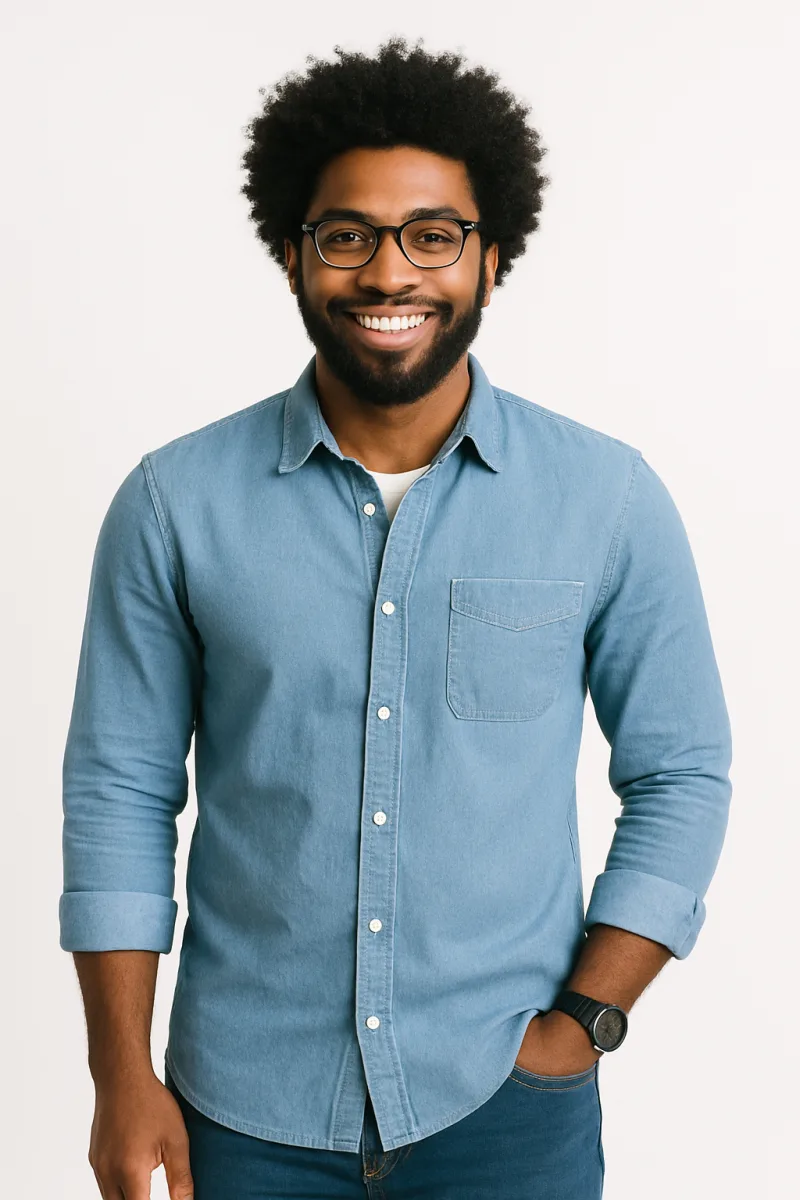
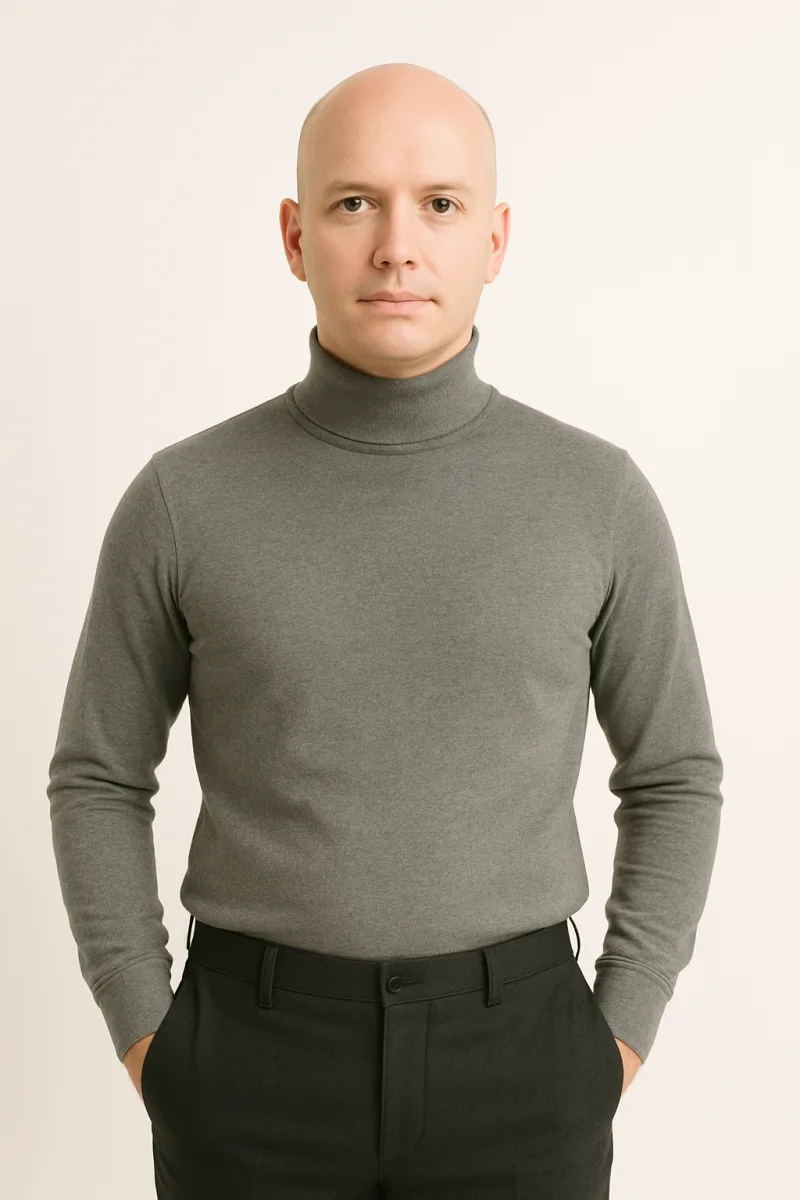
남은 화자 사진까지 맞춘다 — M2 강의 둘과 스피킹 면접관
앞 커밋은 짧은 응답 15문항만 봤다. 나머지 자리를 오디오로 재어 보니 두 군데가 더
어긋나 있었다.

  M2 8-11 강의  GB-Oliver(남) 인데 여성 사진
  스피킹 Task 2 GB-Oliver(남) 인데 여성 면접관이 찍힌 문항지 캡처
                (4분할 · 응답시간 UI 가 그대로 박힌 이미지가 인물 사진 자리에 있었다)

둘 다 지금 있는 사진으로 바꿨다. 오디오는 건드리지 않았다.

겸사겸사 Oliver 와 Henry 를 다른 얼굴로 갈랐다. 둘은 연속된 두 강의를 맡는 사람들이라
(M1 25-28/29-32 · M2 8-11/12-15) 배역표가 음색을 일부러 대비시켜 둔 짝인데, 얼굴이
같으면 그 구분이 화면에서 도로 무너진다. 남성 얼굴 3장으로 6명을 감당하는 배치라
짝을 다시 묶어 이웃한 자리에 같은 얼굴이 오지 않게 했다.

검사는 스피킹 섹션까지 넓혔다. SET 1 도 같은 자리(면접관 image8)를 이제 함께 재는데,
그쪽은 오디오가 여성이라 원래 맞았다 — SET 9 만 그 여성 캡처를 남성 화자에 붙여 썼다.
SET 1 · SET 9 합쳐 45 통과 · 0 실패.

diff --git a/studyground/sg2/assets/set9.js b/studyground/sg2/assets/set9.js
@@ -760,7 +760,7 @@
               "answer": 0,
               "layout": "short-response",
               "audio": "media/audio/set9/l1-q06.mp3",
-              "image": "media/pictures/set9/l1-q1-12-speaker-e.webp"
+              "image": "media/pictures/set9/l1-q1-12-speaker-c.webp"
             },
             {
               "id": "L1-7",
@@ -824,7 +824,7 @@
               "answer": 0,
               "layout": "short-response",
               "audio": "media/audio/set9/l1-q10.mp3",
-              "image": "media/pictures/set9/l1-q1-12-speaker-c.webp"
+              "image": "media/pictures/set9/l1-q1-12-speaker-e.webp"
             },
             {
               "id": "L1-11",
@@ -893,7 +893,8 @@
               "answer": 3
             }
           ],
-          "audio": "media/audio/set9/l1-q13-14.mp3"
+          "audio": "media/audio/set9/l1-q13-14.mp3",
+          "image": "media/pictures/set9/l2-q4-5-conversation.webp"
         },
         {
           "kind": "audio-set",
@@ -927,7 +928,8 @@
               "answer": 3
             }
           ],
-          "audio": "media/audio/set9/l1-q15-16.mp3"
+          "audio": "media/audio/set9/l1-q15-16.mp3",
+          "image": "media/pictures/set9/l2-q6-7-conversation.webp"
         },
         {
           "kind": "audio-set",
@@ -961,7 +963,8 @@
               "answer": 1
             }
           ],
-          "audio": "media/audio/set9/l1-q17-18.mp3"
+          "audio": "media/audio/set9/l1-q17-18.mp3",
+          "image": "media/pictures/set9/l2-q4-5-conversation.webp"
         },
         {
           "kind": "audio-set",
@@ -995,7 +998,8 @@
               "answer": 1
             }
           ],
-          "audio": "media/audio/set9/l1-q19-20.mp3"
+          "audio": "media/audio/set9/l1-q19-20.mp3",
+          "image": "media/pictures/set9/l1-q1-12-speaker-a.webp"
         },
         {
           "kind": "audio-set",
@@ -1029,7 +1033,8 @@
               "answer": 0
             }
           ],
-          "audio": "media/audio/set9/l1-q21-22.mp3"
+          "audio": "media/audio/set9/l1-q21-22.mp3",
+          "image": "media/pictures/set9/l1-q1-12-speaker-e.webp"
         },
         {
           "kind": "audio-set",
@@ -1063,7 +1068,8 @@
               "answer": 3
             }
           ],
-          "audio": "media/audio/set9/l1-q23-24.mp3"
+          "audio": "media/audio/set9/l1-q23-24.mp3",
+          "image": "media/pictures/set9/l1-q1-12-speaker-c.webp"
         },
         {
           "kind": "audio-set",
@@ -1123,7 +1129,8 @@
               "answer": 1
             }
           ],
-          "audio": "media/audio/set9/l1-q25-28.mp3"
+          "audio": "media/audio/set9/l1-q25-28.mp3",
+          "image": "media/pictures/set9/l1-q1-12-speaker-e.webp"
         },
         {
           "kind": "audio-set",
@@ -1183,7 +1190,8 @@
               "answer": 3
             }
           ],
-          "audio": "media/audio/set9/l1-q29-32.mp3"
+          "audio": "media/audio/set9/l1-q29-32.mp3",
+          "image": "media/pictures/set9/l1-q1-12-speaker-c.webp"
         }
       ]
     },
@@ -2321,7 +2329,7 @@
               "audio": "media/audio/set9/s2-q1.mp3",
               "prepSec": 3,
               "respondSec": 45,
-              "image": "media/pictures/set9/s-task2-interview.png"
+              "image": "media/pictures/set9/s-task2-interviewer.webp"
             },
             {
               "id": "set9-S2-q02",
@@ -2330,7 +2338,7 @@
               "audio": "media/audio/set9/s2-q2.mp3",
               "prepSec": 3,
               "respondSec": 45,
-              "image": "media/pictures/set9/s-task2-interview.png"
+              "image": "media/pictures/set9/s-task2-interviewer.webp"
             },
             {
               "id": "set9-S2-q03",
@@ -2339,7 +2347,7 @@
               "audio": "media/audio/set9/s2-q3.mp3",
               "prepSec": 3,
               "respondSec": 45,
-              "image": "media/pictures/set9/s-task2-interview.png"
+              "image": "media/pictures/set9/s-task2-interviewer.webp"
             },
             {
               "id": "set9-S2-q04",
@@ -2348,7 +2356,7 @@
               "audio": "media/audio/set9/s2-q4.mp3",
               "prepSec": 3,
               "respondSec": 45,
-              "image": "media/pictures/set9/s-task2-interview.png"
+              "image": "media/pictures/set9/s-task2-interviewer.webp"
             }
           ]
         }

diff --git a/studyground/sg2/sw.js b/studyground/sg2/sw.js
@@ -84,7 +84,10 @@
 //      셸에 든 set9.js 가 바뀌었으므로 VERSION 을 올려야 재방문 기기가 남녀가
 //      뒤바뀐 옛 배정을 계속 보지 않는다. 여성 얼굴 한 장(speaker-f)이 늘어
 //      config/offline.set9.json 도 92개로 갱신되었다.
-const VERSION = 'sg-v31';
+// v32: 화자 사진 맞추기 2차 — M2 강의 두 개(8-11 Oliver · 12-15 Henry)와 스피킹 Task 2
+//      면접관까지 배역대로 바꿨다. 8-11 자리에는 남성 오디오에 여성 사진이, Task 2 에는
+//      남성 오디오에 여성 면접관 캡처가 들어가 있었다. set9.js 가 또 바뀌어 판올림한다.
+const VERSION = 'sg-v32';
 const SHELL = 'sg-shell-' + VERSION;
 const MEDIA = 'sg-media-' + VERSION;
 

diff --git a/studyground/tools/build_set9.py b/studyground/tools/build_set9.py
@@ -120,13 +120,45 @@ def resolve_audio(ref, where):
 #
 # 화자 캐릭터 → 얼굴 (한 캐릭터는 세트 내내 같은 얼굴. 이웃한 두 문항은 다른 얼굴)
 #   Ava·Zoe·Lily → b   Mia·Alice·Ivy → d   Emma → f
-#   Liam·Noah → a      Mason·Ethan → c     Henry·Oliver → e
+#   Liam·Noah → a      Mason·Henry → c      Ethan·Oliver → e
+# 남성 얼굴 3장으로 남성 화자 6명을 감당해야 하므로 둘씩 짝지을 수밖에 없다. 짝을 이렇게
+# 묶은 이유는 배역표 designNotes ① 때문이다 — Oliver 와 Henry 는 연속된 두 강의를 맡는다
+# (M1 25-28 / 29-32, M2 8-11 / 12-15). 음색을 일부러 갈라 놓은 두 사람이므로 얼굴까지
+# 같으면 화면이 도로 헷갈리게 만든다. 그래서 둘을 서로 다른 짝에 넣었다.
 #
 # M1 Q1-12 화자: Ava Liam Mia Mason Alice Henry Lily Noah Emma Ethan Zoe Oliver
 # M2 Q1-3  화자: Ava Emma Ivy
-L1_Q1_12_IMAGES = ['b', 'a', 'd', 'c', 'd', 'e', 'b', 'a', 'f', 'c', 'b', 'e']
+L1_Q1_12_IMAGES = ['b', 'a', 'd', 'c', 'd', 'c', 'b', 'a', 'f', 'e', 'b', 'e']
 L2_Q1_3_IMAGES = ['b', 'f', 'd']
 PIC_EXT = '.webp'
+#
+# ── L1 블록(대화·공지·강의) 삽화 (2026-08-11) ──────────────────────────────
+# docx 는 M1 Q13-32 자리에 삽화를 하나도 붙여 두지 않았다. 그래서 답변 화면 왼쪽 칸이
+# 통째로 비어 선택지만 오른쪽에 떠 있었다 — 발주 요구는 "대화형은 왼쪽 사진 · 오른쪽 4지".
+# 아래 표로 블록마다 사진을 고정한다. 기준은 M2 블록과 같다:
+#   2인 대화  → 장면 삽화(l2-*-conversation)
+#   1인 공지  → 그 화자의 얼굴(위 캐릭터→얼굴 표)
+#   1인 강의  → 강의 장면 또는 그 화자의 얼굴
+# 배역(config/set9-voice-casting.json):
+#   13-14 Emma+Liam · 15-16 Mia+Ethan · 17-18 Zoe+Mason (전부 남녀 2인)
+#   19-20 Liam(a) · 21-22 Ethan(e) · 23-24 Mason(c) · 25-28 Oliver(e) · 29-32 Henry(c)
+# 고해상 남성 얼굴이 a·c·e 셋뿐이라 완전 배타 배정은 불가능하다. "한 캐릭터=한 얼굴"을
+# 먼저 지키되, 이웃한 두 블록에 같은 얼굴이 오지 않도록 짝을 골랐다.
+# 남성 얼굴이 더 들어오면 이 표만 고치면 된다.
+L1_BLOCK_IMAGES = {
+    'Questions 13-14': 'l2-q4-5-conversation' + PIC_EXT,
+    'Questions 15-16': 'l2-q6-7-conversation' + PIC_EXT,
+    'Questions 17-18': 'l2-q4-5-conversation' + PIC_EXT,
+    'Questions 19-20': 'l1-q1-12-speaker-a' + PIC_EXT,
+    'Questions 21-22': 'l1-q1-12-speaker-e' + PIC_EXT,
+    'Questions 23-24': 'l1-q1-12-speaker-c' + PIC_EXT,
+    'Questions 25-28': 'l1-q1-12-speaker-e' + PIC_EXT,
+    'Questions 29-32': 'l1-q1-12-speaker-c' + PIC_EXT,
+}
+# M2 블록. 대화 둘은 남녀 2인 장면(배역도 남녀 한 쌍이라 그대로 맞는다)이고,
+# 강의 둘은 화자 한 명이 나오는 인물 사진이라 배역을 따른다 —
+#   8-11 = GB-Oliver → 얼굴 e · 12-15 = GB-Henry → 얼굴 c.
+# 2026-08-11 이전에는 8-11 자리에 여성 사진이 들어가 있었다(오디오는 남성 Oliver).
 L2_BLOCK_IMAGES = {
     'Questions 4-5': 'l2-q4-5-conversation' + PIC_EXT,
     'Questions 6-7': 'l2-q6-7-conversation' + PIC_EXT,
@@ -511,8 +543,9 @@ def wire_listening(sec):
                         p = pic('l1-q1-12-speaker-' + L2_Q1_3_IMAGES[i] + PIC_EXT, where0 + '/' + q['id'])
                         if p:
                             q['image'] = p
-            elif mod['id'] == 'L2':
-                name = L2_BLOCK_IMAGES.get(blk.get('heading'))
+            else:
+                table = L1_BLOCK_IMAGES if mod['id'] == 'L1' else L2_BLOCK_IMAGES
+                name = table.get(blk.get('heading'))
                 if name:
                     p = pic(name, where0)
                     if p:
@@ -538,7 +571,12 @@ def wire_speaking(sec):
                     else:
                         del q['audio']
                         q['audioMissing'] = True
-                name = ('s-task1-repeat-' + str(i + 1) + '.png') if mod['id'] == 'S1' else 's-task2-interview.png'
+                # Task 1 은 카페테리아 장면 그림(따라 말할 부분이 초록 테두리로 표시된다) —
+                # 화자 사진이 아니므로 docx 원본을 그대로 쓴다.
+                # Task 2 는 화면의 인물 사진 자리다. docx 가 넣어 둔 것은 여성 면접관이 찍힌
+                # 문항지 캡처(4분할·응답시간 UI 포함)였는데 오디오는 GB-Oliver(남)다.
+                # 얼굴 c(= M2 8-11 강의와 같은 Oliver)로 바꾼다.
+                name = ('s-task1-repeat-' + str(i + 1) + '.png') if mod['id'] == 'S1' else 's-task2-interviewer.webp'
                 p = pic(name, where0 + '/' + q['id'])
                 if p:
                     q['image'] = p

diff --git a/studyground/tests/test_speaker_images.py b/studyground/tests/test_speaker_images.py
@@ -49,8 +49,10 @@ DUMP_JS = r"""
 global.window = global;
 require(process.argv[1]);
 var out = [];
-window[process.argv[2]].sections.find(function (s) { return s.id === 'listening'; })
-  .modules.forEach(function (m) {
+window[process.argv[2]].sections.filter(function (s) {
+  return s.id === 'listening' || s.id === 'speaking';
+}).forEach(function (s) {
+  s.modules.forEach(function (m) {
     m.blocks.forEach(function (b) {
       if (b.audio) out.push({ id: b.heading || m.id, audio: b.audio, image: b.image || '', level: 'block' });
       (b.questions || []).forEach(function (q) {
@@ -58,6 +60,7 @@ window[process.argv[2]].sections.find(function (s) { return s.id === 'listening'
       });
     });
   });
+});
 process.stdout.write(JSON.stringify(out));
 """
 
@@ -70,15 +73,33 @@ def listening_pairs(asset: str, global_name: str):
     return json.loads(proc.stdout)
 
 
-# SET 9 는 삽화 파일명(speaker-a..f)이 성별을 말해 주지 않는다. 사진 실물을 보고 적은 표이며,
-# tools/build_set9.py 의 배정 주석과 짝을 이룬다. 사진을 갈아 끼우면 여기도 고칠 것.
+# 파일명이 성별을 말해 주지 않는 삽화들. 사진 실물을 보고 적은 표이며,
+# SET 9 쪽은 tools/build_set9.py 의 배정 주석과 짝을 이룬다. 사진을 갈아 끼우면 여기도 고칠 것.
+# 'duo' 는 인물이 여럿이거나 장면 그림이라 화자 성별을 물을 수 없는 삽화다.
 SET9_FACE_GENDER = {
+    # SET 1 스피킹 — image1~7 은 상황 그림, image8 은 면접관 사진
+    "image1.png": "duo", "image2.png": "duo", "image3.png": "duo", "image4.png": "duo",
+    "image5.png": "duo", "image6.png": "duo", "image7.png": "duo",
+    "image8.png": "female",
     "l1-q1-12-speaker-a.webp": "male",     # 20대 아시아계
     "l1-q1-12-speaker-b.webp": "female",   # 20대 아시아계
     "l1-q1-12-speaker-c.webp": "male",     # 30~40대 백인(민머리)
     "l1-q1-12-speaker-d.webp": "female",   # 40대 백인
     "l1-q1-12-speaker-e.webp": "male",     # 30대 흑인(안경)
     "l1-q1-12-speaker-f.webp": "female",   # 40대 흑인
+    "l2-q8-11-talk.webp": "male",          # = speaker-e 와 같은 인물(강의 화자 Oliver)
+    "l2-q12-15-talk.webp": "male",         # = speaker-c 와 같은 인물(강의 화자 Henry)
+    "s-task2-interviewer.webp": "male",    # = speaker-e 와 같은 인물(면접관 Oliver)
+    "l2-q4-5-conversation.webp": "duo",    # 2인 대화 장면
+    "l2-q6-7-conversation.webp": "duo",    # 2인 대화 장면
+    # 스피킹 Task 1 은 카페테리아 장면 그림(따라 말할 부분이 표시된다) — 화자 사진이 아니다.
+    "s-task1-repeat-1.png": "duo",
+    "s-task1-repeat-2.png": "duo",
+    "s-task1-repeat-3.png": "duo",
+    "s-task1-repeat-4.png": "duo",
+    "s-task1-repeat-5.png": "duo",
+    "s-task1-repeat-6.png": "duo",
+    "s-task1-repeat-7.png": "duo",
 }
 
 
@@ -94,8 +115,6 @@ def image_gender(image: str):
     name = Path(image).name.lower()
     if name in SET9_FACE_GENDER:
         return SET9_FACE_GENDER[name]
-    if "/set9/" in image.replace("\\", "/"):
-        return "duo"      # 대화·강의 장면 삽화 — 인물이 여럿이라 판정 대상이 아니다
     if "2 people" in name or "2 persons" in name:
         return "duo"
     if "female" in name:
